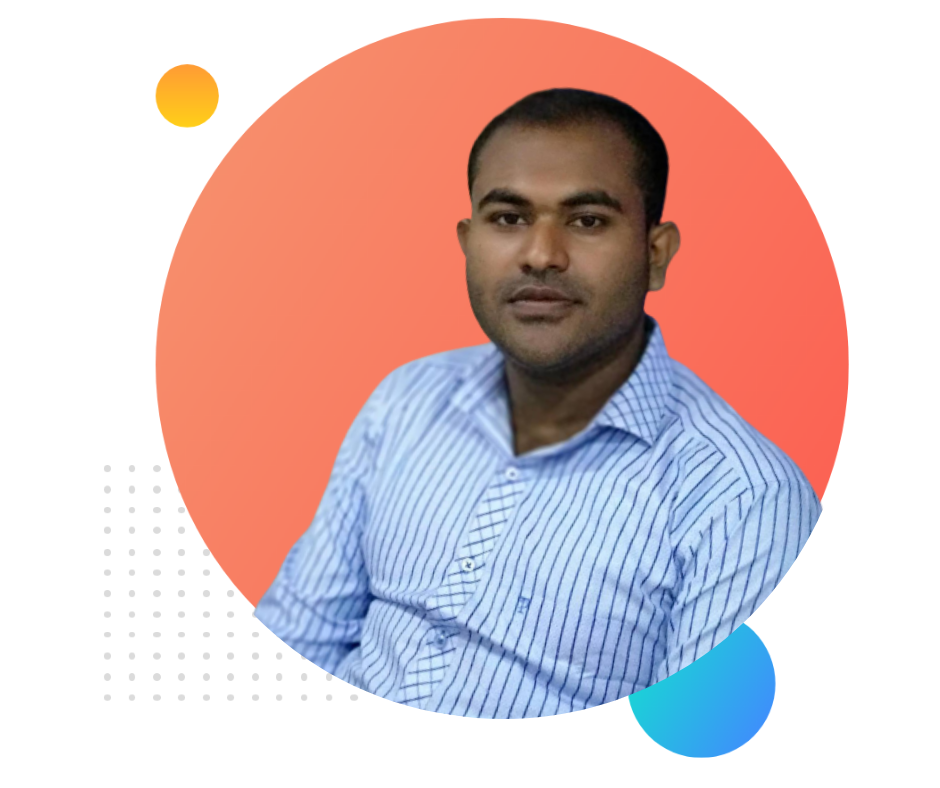
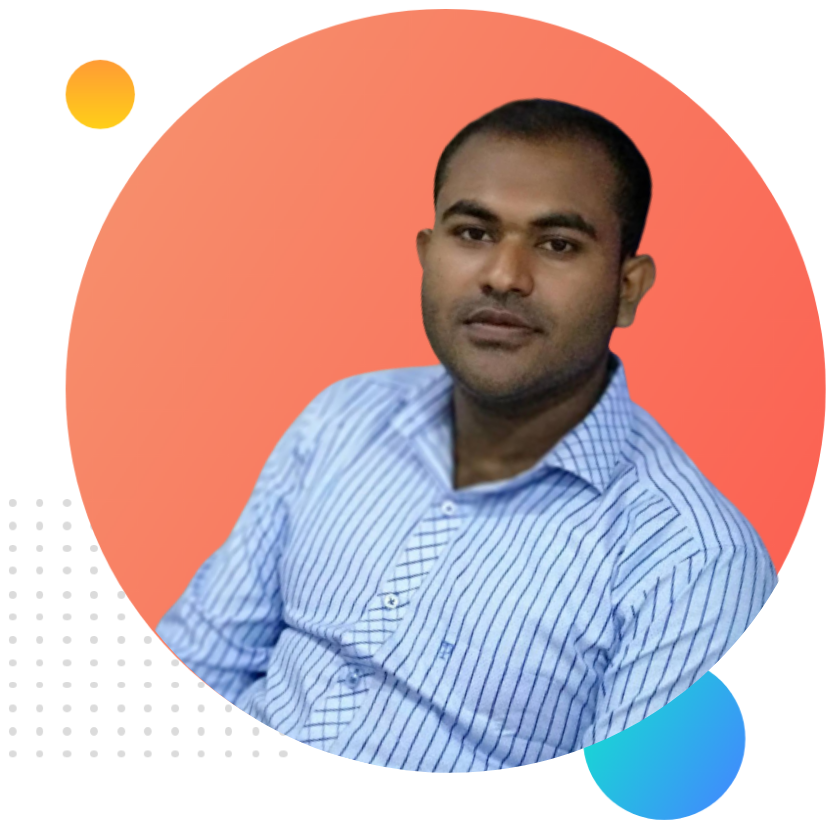
baby

diff --git a/index.html b/index.html
@@ -13,7 +13,7 @@
    
        <div class="half-width">
             <h1>Welcome to </h1>
-            <h1><span class="text-heilight">Real Web Developemnt</span> World</h1>
+            <h1><span class="text-heilight">Web Developemnt</span> World</h1>
             <h3>Learn with me</h3>
             <p>Learn a New Skill! Learn to Code and Join Our 45+ Million Users. Enjoy Extra Quizzes & Projects and Exclusive Content. Practice with Our App. Enroll Today! Choose Your Skill Path. Collaborative Learning. Affordable Learning.</p>
             <a class="link-buttton" target="_blank" href="https://www.facebook.com/asrealshuvo/">Hire Me</a>
@@ -23,18 +23,15 @@
             </div>
    </section>
    <section class="">
-   
-   
-         <div class="half-width">
-             <img src="images/profile2.png" alt="">
-         </div>
-         <div class="half-width">
-            <h1>Welcome to </h1>
-            <h1><span class="text-heilight">Real Web Developemnt</span> World</h1>
-            <h3>Learn with me</h3>
-            <p>Learn a New Skill! Learn to Code and Join Our 45+ Million Users. Enjoy Extra Quizzes & Projects and Exclusive Content. Practice with Our App. Enroll Today! Choose Your Skill Path. Collaborative Learning. Affordable Learning.</p>
-            <a class="link-buttton" target="_blank" href="https://www.facebook.com/asrealshuvo/">Hire Me</a>
-       </div>
+            <div class="half-width">
+                <img src="images/profile2.png" alt="">
+            </div>
+            <div class="half-width">
+                     <h1>Big Dream </h1>
+                     <h2>Become Master Class Web developer</h2>
+                     <p>Learning. Affordable Learning.Learn a New Skill! Learn to Code and Join Our 45+ Million Users. Enjoy Extra Quizzes & Projects and Exclusive Content. Practice with Our App. Enroll Today! Choose Your Skill Path. Collaborative Learning. Affordable Learning.</p>
+                <a class="link-buttton" target="_blank" href="https://www.facebook.com/asrealshuvo/">Download My Cv</a>
+           </div>
 </section>
 </body>
 </html>

diff --git a/style.css b/style.css
@@ -9,15 +9,15 @@ h1{
     color: orange;
 }
 .half-width{
-    width: 45%;
-   display: inline-block;
+    width: 47%;
+  float: left;
    
     margin-left: 20px;
     padding-left: 10px;
     
 }
 .half-width img{
-    width: 100%;
+    width: 80%;
 }
 .top-banner{
     background-image: url("images/top-banner.png");
@@ -25,7 +25,7 @@ h1{
 }
 section{
     height: 100%;
-    padding-bottom: px;
+    padding-bottom: 100px;
 }
 .link-buttton{
     text-decoration: none;
